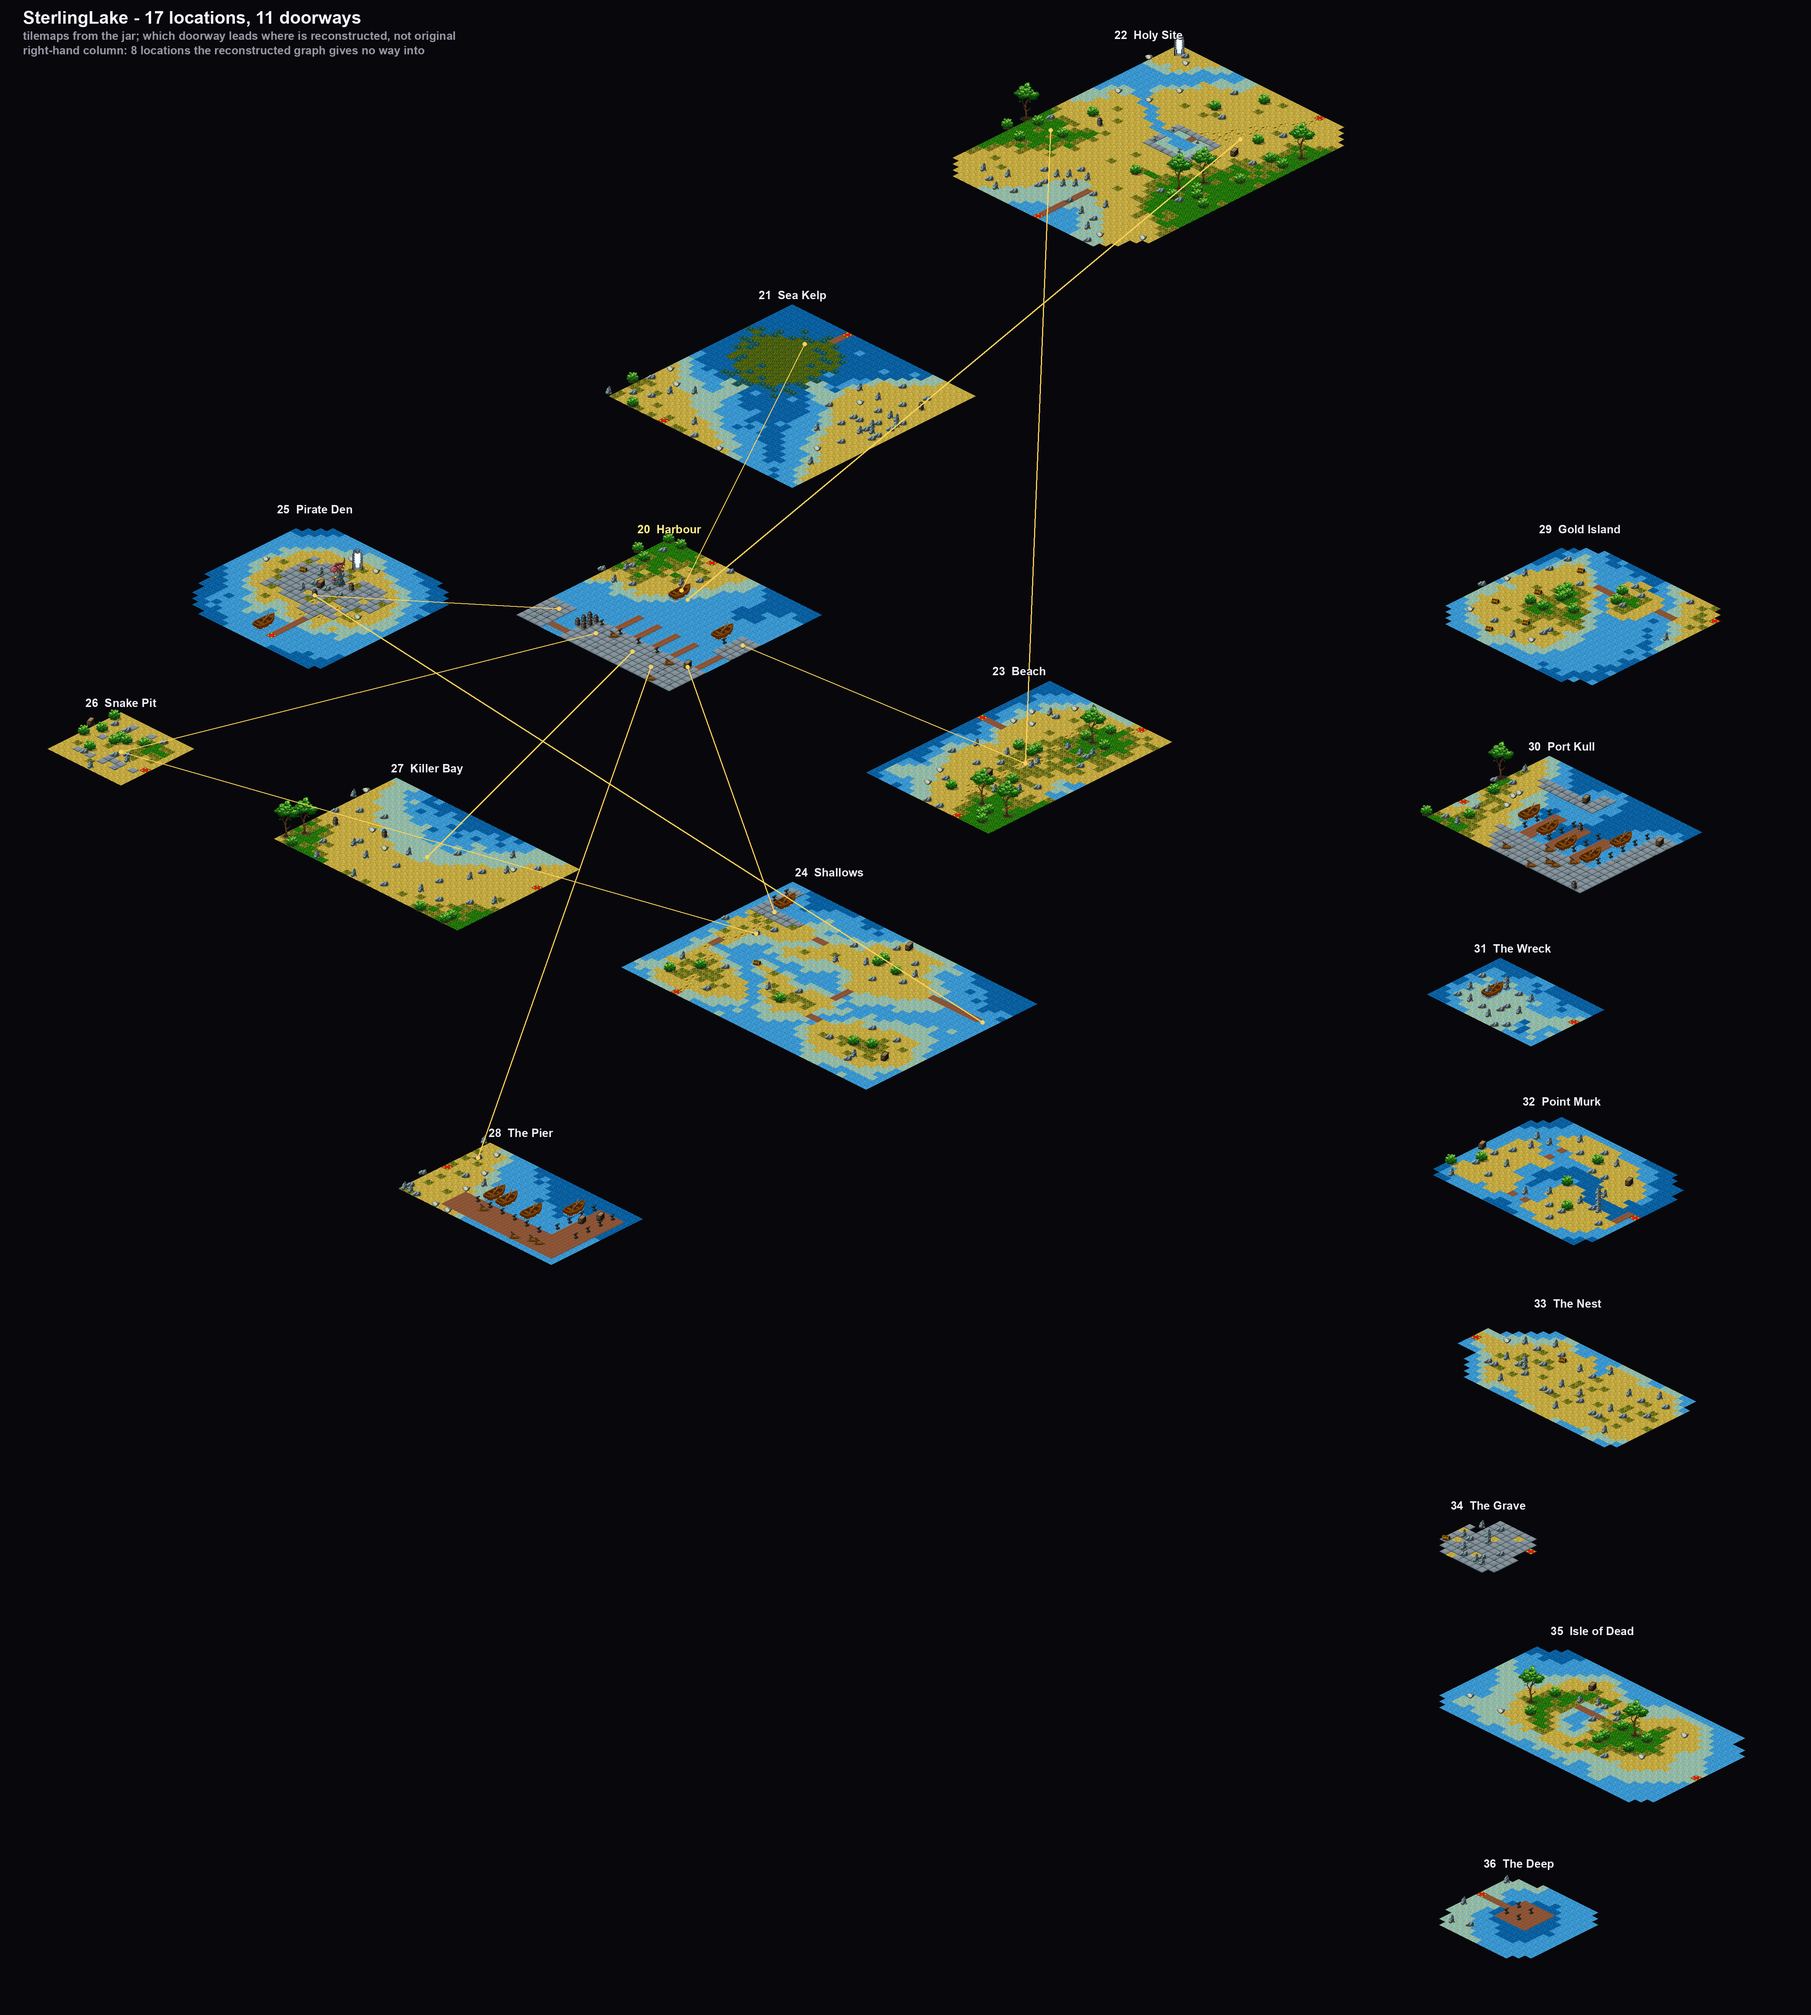
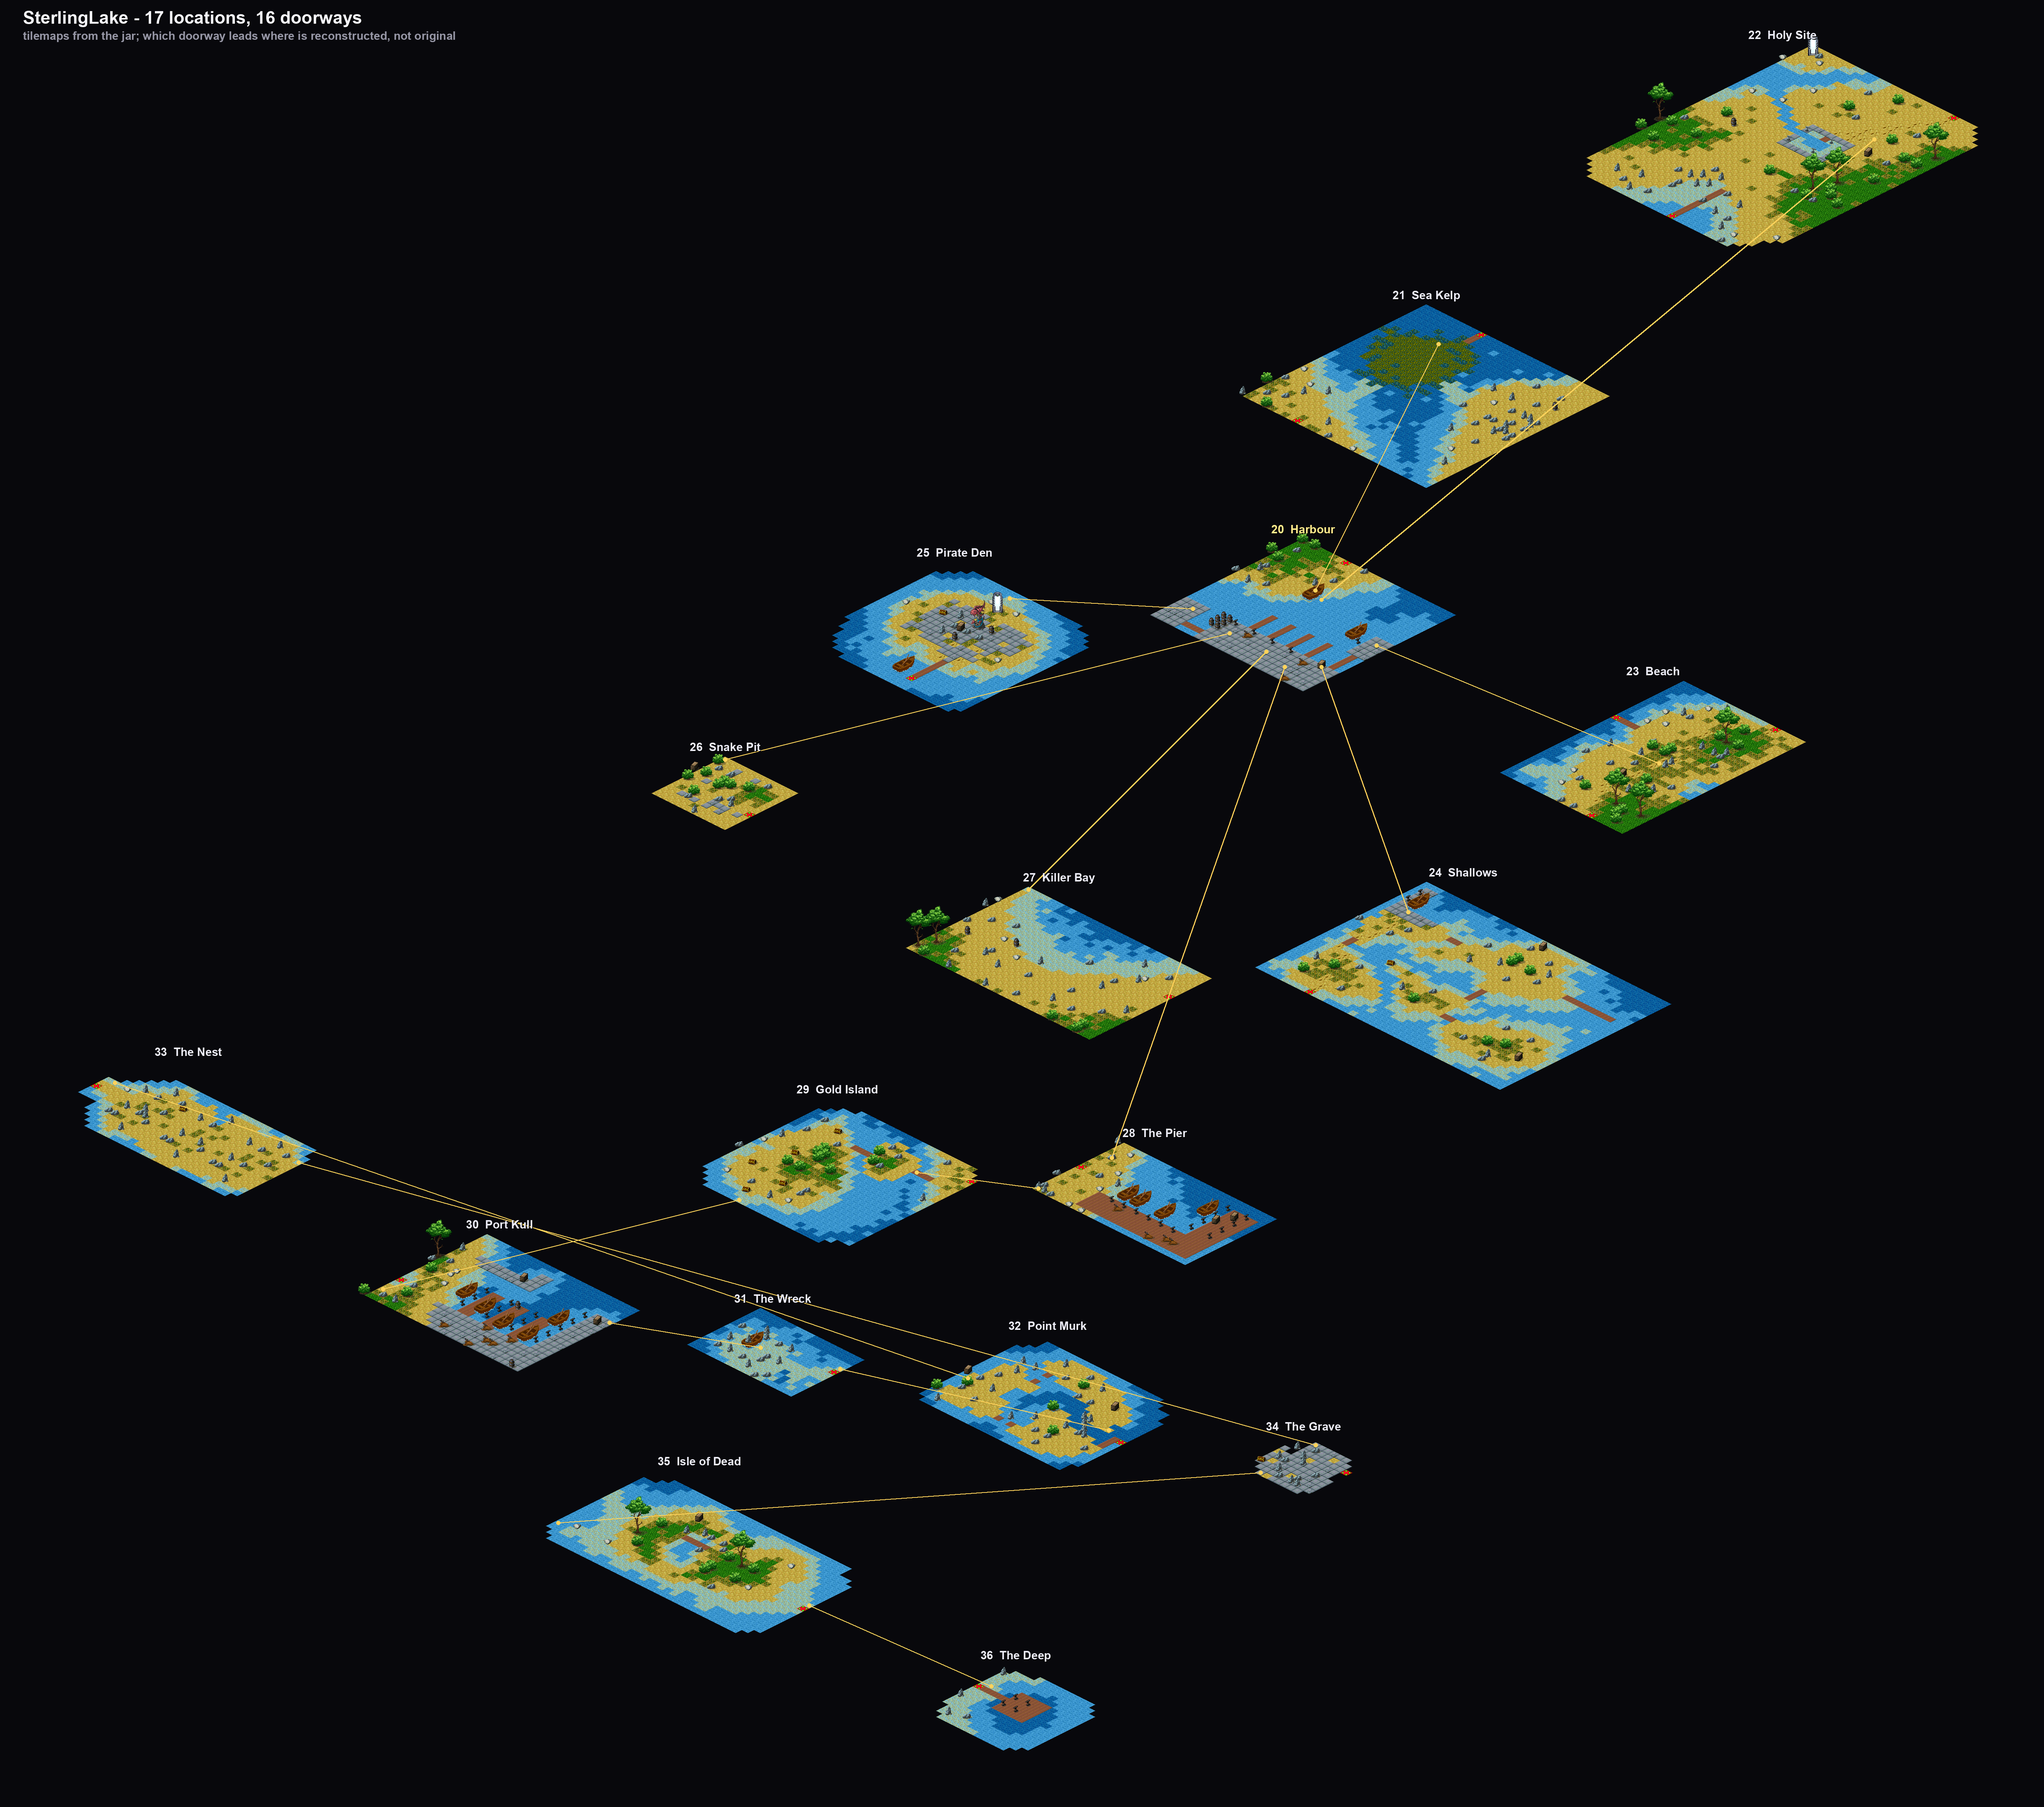
Give every location a way in, and a way out
The atlas made it visible: seven Sterling Lake locations could be left
but never entered, and three could be entered but never left. That was
not the game, it was our rule. _build_exits chose each doorway's
destination as a function of its source, so the Harbour collected twelve
ways in while Gold Island got none, and a location nobody happened to
point at was simply unreachable.

It now builds a hub and spokes: the busiest location reaches as far as
its own doorways allow, everything else hangs off the chain, and every
link is made both ways.

The part that unlocks it is that a doorway never needed a red exit tile.
The trigger is a type 1 bounding box; the tiles are only the artist
showing where the boxes were. So a location the artist never marked —
Snake Pit, Killer Bay, The Grave — gets one invented on walkable ground
at the rim of its map. spawn_point had to learn about those too, or the
player arrives inside an invented box and bounces.

Shirad's Forge goes from 15 links to 34, Sterling Lake from 23 to 32,
with nothing stranded in either. Two new checks hold the line, the
scripted playthrough still crosses a doorway and resumes, and both
atlases are redrawn whole.

diff --git a/server/world.py b/server/world.py
@@ -250,27 +250,91 @@ class World:
         return [c[0] for c in clusters]
 
     def _build_exits(self):
-        """Wire the locations together. The real game's layout is in the lost
-        type 1 tables, so this links each doorway to the next location in id
-        order and always keeps a way back to the first."""
-        out = {}
-        for i, loc in enumerate(self.locations):
-            tiles = self.exit_tiles(loc)
-            if not tiles:
-                continue
-            links = []
-            for n, tile in enumerate(tiles):
-                if loc == self.locations[0]:
-                    dest = self.locations[(n + 1) % len(self.locations)]
-                else:
-                    dest = self.locations[0] if n == 0 else \
-                        self.locations[(i + n) % len(self.locations)]
-                if dest != loc:
-                    links.append((tile, dest))
-            out[loc] = links
+        """Wire the locations together.
+
+        Which doorway led where lived in the lost type 1 tables, so this is a
+        reconstruction. The rule it replaces linked each doorway to "the next
+        location in id order", which chose destinations purely as a function
+        of the source: Sterling Lake's Harbour ended up with twelve ways in
+        and Gold Island with none, and seven locations could be left but never
+        entered.
+
+        This builds a hub and spokes instead, and guarantees two things that
+        the old rule did not: every location can be reached, and every
+        location can be left.
+
+        A doorway does not actually need a red exit tile. The trigger is a
+        type 1 bounding box (see exit_entity), and the tiles are only the
+        artist showing you where the boxes were. So a location the artist
+        never marked still gets one, invented on walkable ground.
+        """
+        locs = list(self.locations)
+        if len(locs) < 2:
+            return {loc: [] for loc in locs}
+
+        marked = {loc: list(self.exit_tiles(loc)) for loc in locs}
+        hub = max(locs, key=lambda l: (len(marked[l]), -l))
+        spokes = [l for l in locs if l != hub]
+
+        out = {loc: [] for loc in locs}
+        spent = {loc: 0 for loc in locs}
+
+        def doorway(loc):
+            """The next unused doorway in this location."""
+            n = spent[loc]
+            spent[loc] += 1
+            if n < len(marked[loc]):
+                return marked[loc][n]
+            return self._invent_doorway(loc, [t for t, _ in out[loc]]
+                                        + marked[loc])
+
+        # the hub reaches as far as its own doorways allow, and each of those
+        # keeps one doorway for the way back
+        reach = max(1, len(marked[hub]))
+        attached = []
+        for dest in spokes[:reach]:
+            out[hub].append((doorway(hub), dest))
+            out[dest].append((doorway(dest), hub))
+            attached.append(dest)
+
+        # whatever is left hangs off the chain, so nothing is stranded
+        prev = attached[-1] if attached else hub
+        for dest in spokes[reach:]:
+            out[prev].append((doorway(prev), dest))
+            out[dest].append((doorway(dest), prev))
+            prev = dest
+
         return out
 
+    def _invent_doorway(self, location, avoid):
+        """A walkable tile to put a doorway on, well clear of the others."""
+        mp = self.map(location)
+        if not mp:
+            return (1, 1)
+        best = None
+        for y in range(mp.h):
+            for x in range(mp.w):
+                if not mp.walkable(x, y) or mp.is_exit(x, y):
+                    continue
+                near = min((max(abs(x - ax), abs(y - ay))
+                            for ax, ay in avoid), default=99)
+                if near <= EXIT_RADIUS + 2:
+                    continue
+                # hug the edge: doorways belong at the rim of a map, not in
+                # the middle of it
+                rim = min(x, y, mp.w - 1 - x, mp.h - 1 - y)
+                score = (rim, -near)
+                if best is None or score < best[0]:
+                    best = (score, (x, y))
+        return best[1] if best else (1, 1)
+
     EXITS = property(lambda self: self.exits)
+
+    def doorway_tiles(self, location):
+        """Every doorway in a location: the ones the artist marked, plus any
+        this server had to invent to keep the chapter connected."""
+        wired = [t for t, _ in getattr(self, "exits", {}).get(location, [])]
+        return wired or list(self.exit_tiles(location))
 
     def spawn_point(self, location):
         """A walkable tile to stand on: just outside a doorway's trigger box if
@@ -286,7 +350,7 @@ class World:
         mp = self.map(location)
         if not mp:
             return 1, 1
-        exits = list(self.exit_tiles(location))
+        exits = list(self.doorway_tiles(location))
 
         def clear(x, y):
             if not mp.walkable(x, y) or mp.is_exit(x, y):

diff --git a/server/test_server.py b/server/test_server.py
@@ -149,6 +149,19 @@ def main():
         check(f"{game}: every doorway can be walked into", not unreachable,
               str(unreachable[:3]))
 
+        # the old rule chose destinations from the source alone, so seven of
+        # Sterling Lake's locations could be left but never entered
+        inbound = {l: 0 for l in w.locations}
+        for links in w.EXITS.values():
+            for _, dest in links:
+                inbound[dest] += 1
+        check(f"{game}: every location can be reached",
+              all(inbound[l] for l in w.locations),
+              f"no way into {[l for l in w.locations if not inbound[l]][:5]}")
+        check(f"{game}: every location can be left",
+              all(w.EXITS.get(l) for l in w.locations),
+              f"dead ends at {[l for l in w.locations if not w.EXITS.get(l)][:5]}")
+
         # monsters must not borrow the townsfolk sheet
         check(f"{game}: monsters are not NPCs",
               all(m.creature != w.npc_creature for m in w.living()))
